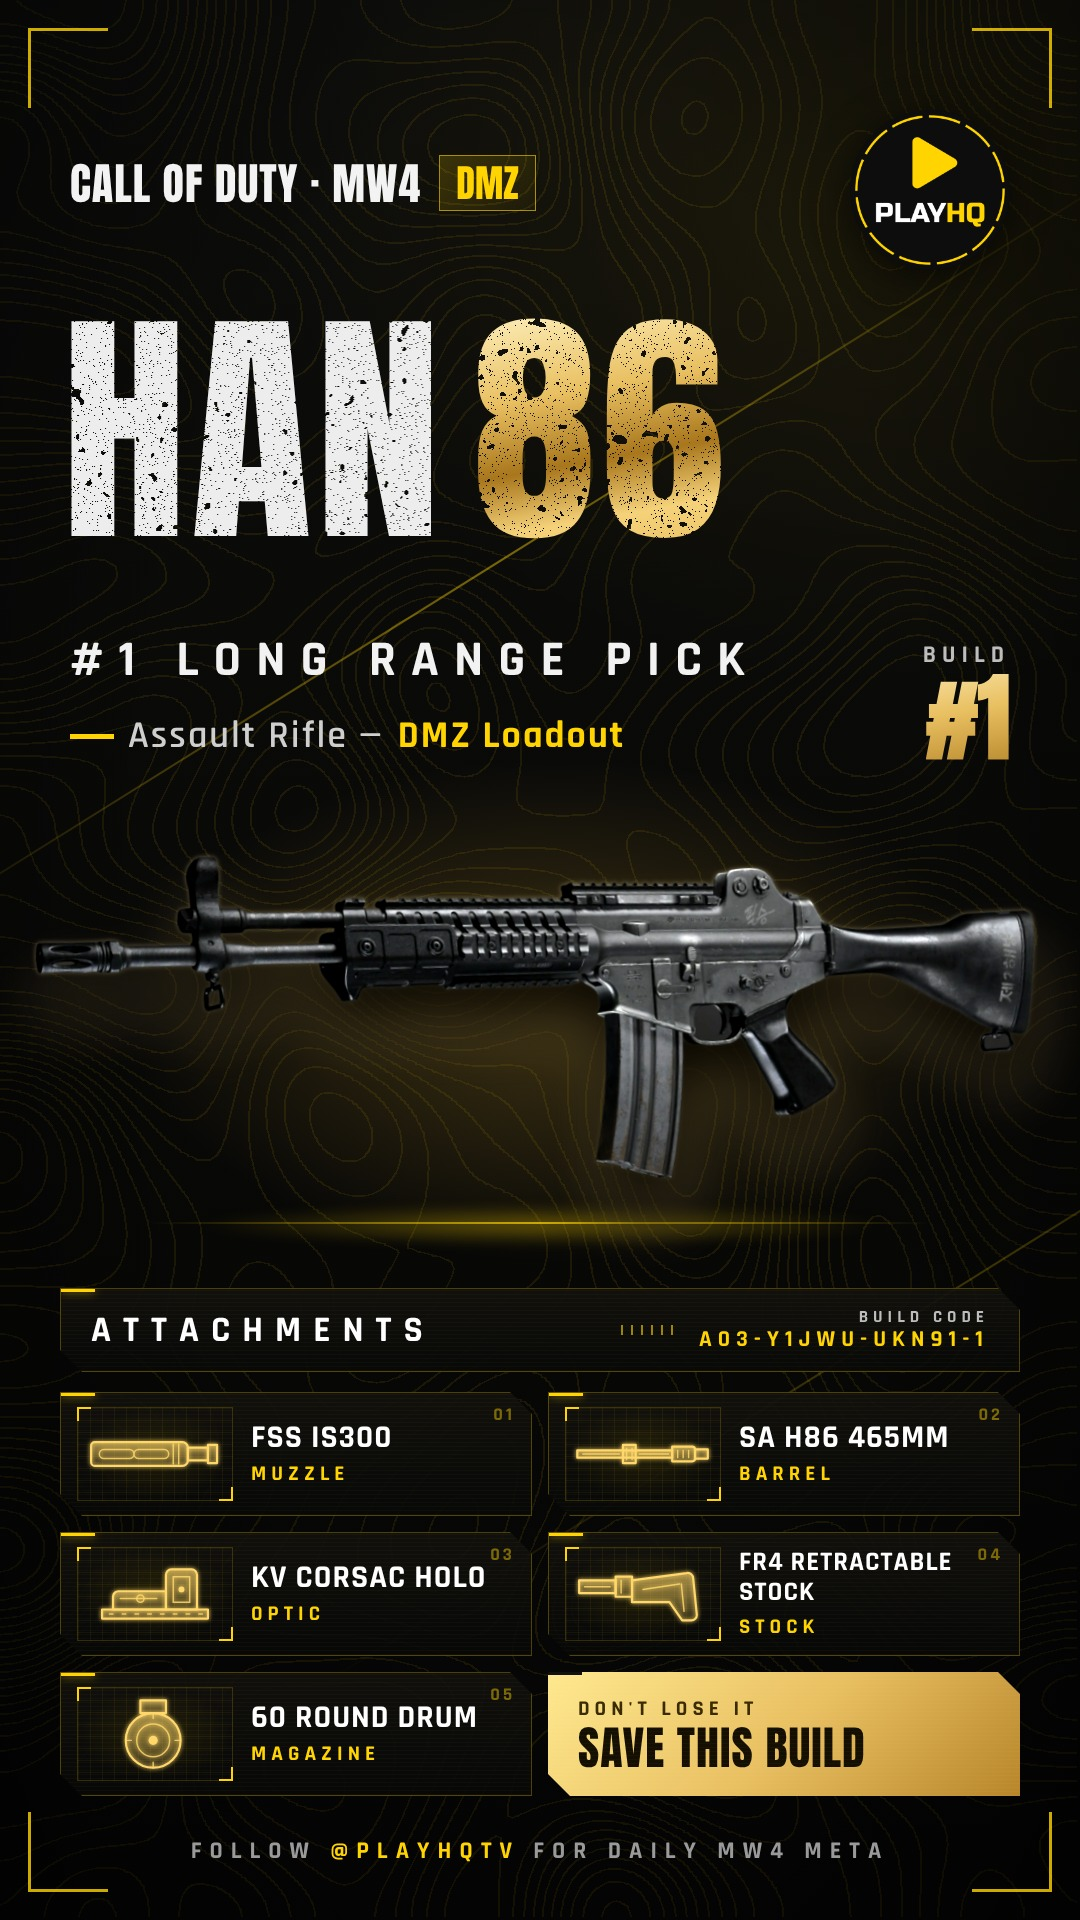
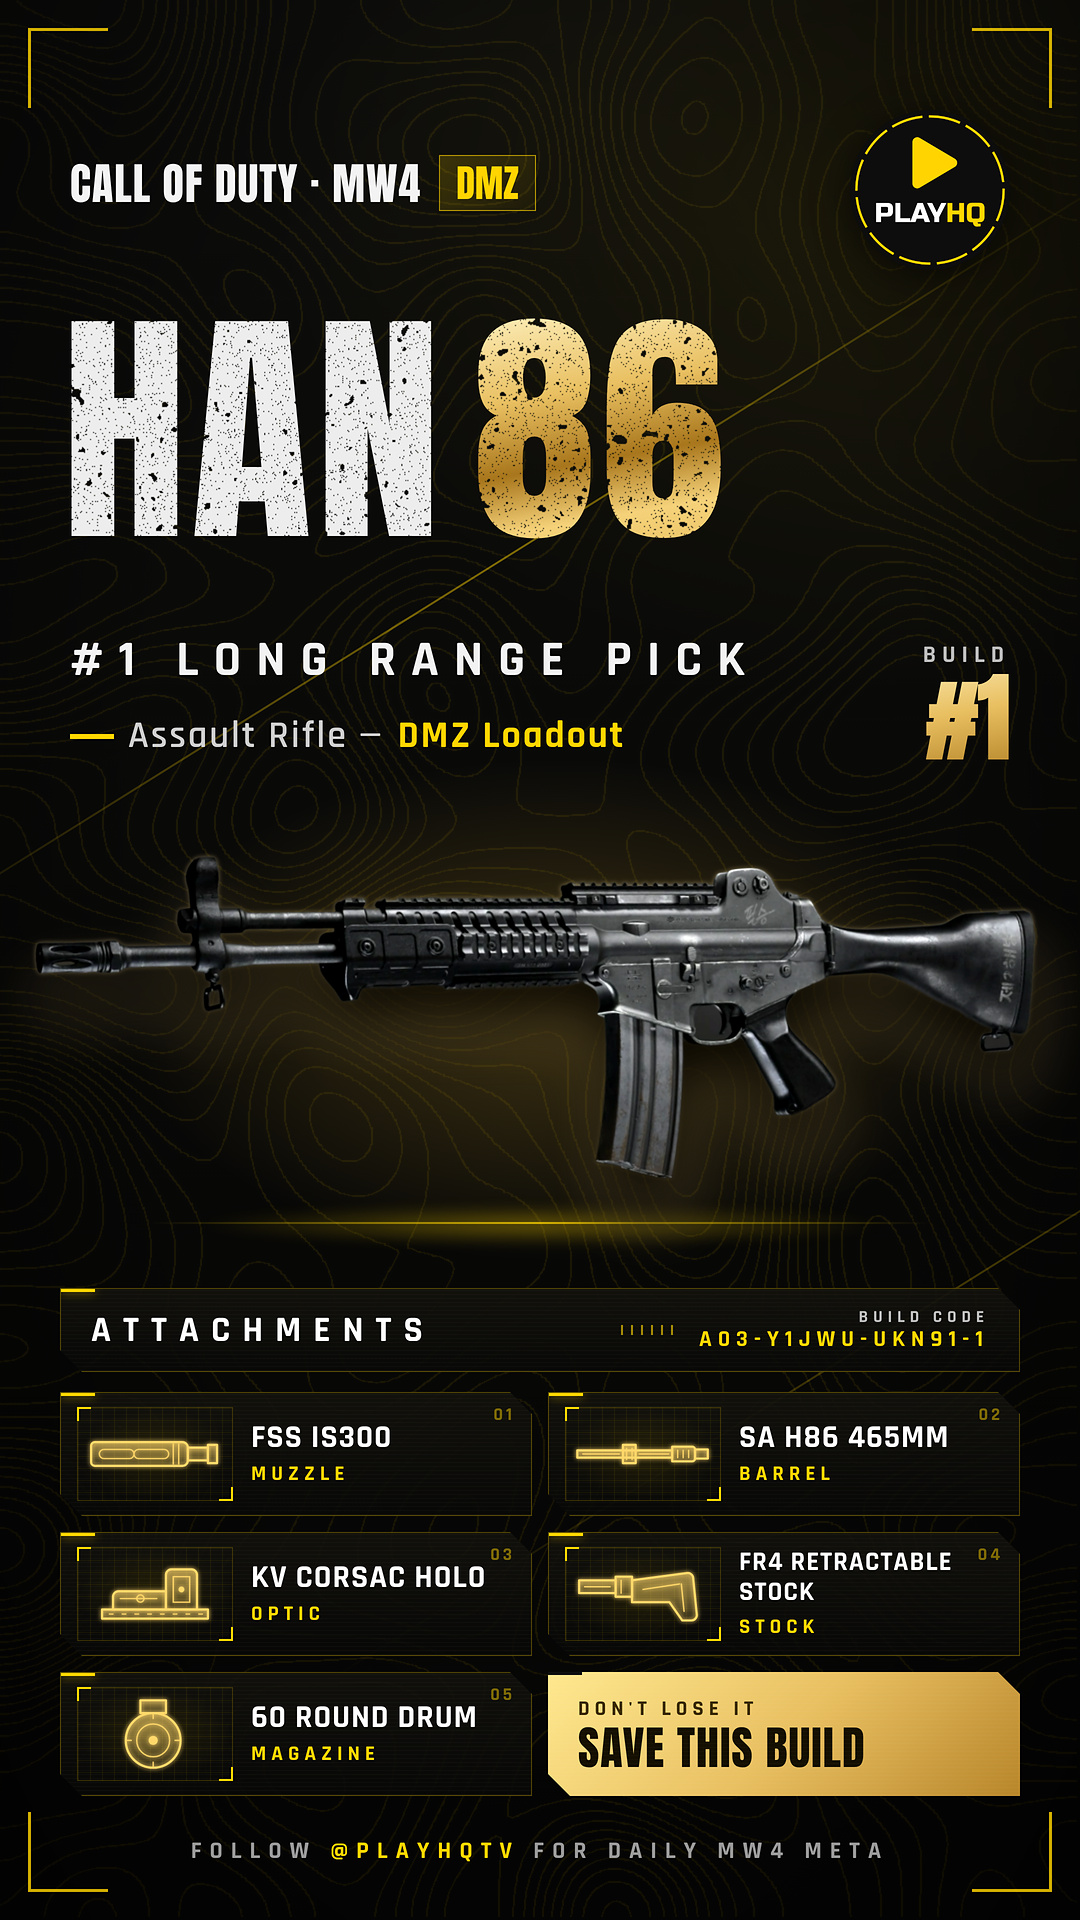
Carousel render: 2x supersampling, JPEG q95 4:4:4 for sharper slides
Claude-Session: https://claude.ai/code/session_01LXyKCaXtAVVtiefghrjJL7

diff --git a/templates/meta-carousel/render.py b/templates/meta-carousel/render.py
@@ -178,12 +178,18 @@ def main(data_path, out_dir=None):
     srv = serve(HERE)
     from playwright.sync_api import sync_playwright
     with sync_playwright() as p:
-        b = p.chromium.launch(); pg = b.new_page(viewport={'width': 1080, 'height': 1920})
+        b = p.chromium.launch(); pg = b.new_page(viewport={'width': 1080, 'height': 1920}, device_scale_factor=2)
         for name, h in pages:
             open(os.path.join(tmp, name + '.html'), 'w').write(h)
             pg.goto(f'http://127.0.0.1:{srv.server_address[1]}/_build/{name}.html')
             pg.wait_for_selector('body[data-ready]'); pg.wait_for_timeout(300)
-            pg.screenshot(path=os.path.join(out_dir, name + '.jpg'), type='jpeg', quality=92)
+            raw = os.path.join(tmp, name + '@2x.png')
+            pg.screenshot(path=raw, type='png')
+            # 2x supersampling -> 1080x1920, light sharpen, JPEG q95 without chroma subsampling (crisp coloured text)
+            from PIL import Image, ImageFilter
+            im = Image.open(raw).convert('RGB').resize((1080, 1920), Image.LANCZOS)
+            im = im.filter(ImageFilter.UnsharpMask(radius=0.8, percent=45, threshold=2))
+            im.save(os.path.join(out_dir, name + '.jpg'), 'JPEG', quality=95, subsampling=0, optimize=True)
             print(os.path.join(out_dir, name + '.jpg'))
         b.close()
     srv.shutdown()
